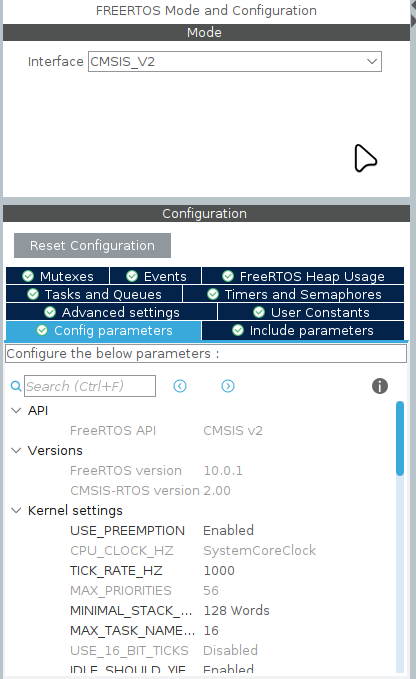
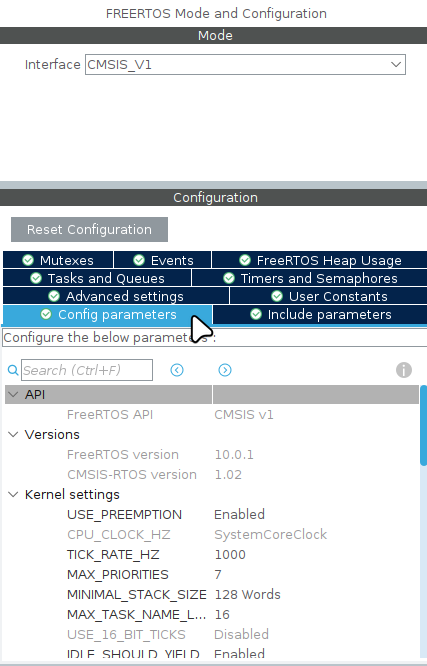
Update lab01 freertos

diff --git a/labs/01_lab01/README.md b/labs/01_lab01/README.md
@@ -169,7 +169,7 @@
         </p>
 
 
-    3. Se abrirá la secciṕn ```FREERTOS Mode and Configuration```. En ```Interface```seleccionar ```CMSIS_V2```, lo que hará que en la sección ```Configuration``` aparezcan varios *widgets* para establecer los parámetros del sistema operativo:
+    3. Se abrirá la secciṕn ```FREERTOS Mode and Configuration```. En ```Interface```seleccionar ```CMSIS_V1```, lo que hará que en la sección ```Configuration``` aparezcan varios *widgets* para establecer los parámetros del sistema operativo:
 
         <p align="center">
         <img src="/labs/figs/lab00/rtos3.png" alt="rtos3" width="310">
@@ -197,13 +197,13 @@
         <img src="/labs/figs/lab00/rtos5.png" alt="rtos5" width="310">
         </p>
 
-        * ```Name:``` BlinkTask
+        * ```Name:``` BlinkerTask
 
-        * ```Priority:``` osPriorityLow (suficiente para este ejemplo simple).
+        * ```Priority:``` osPriorityNormal 
 
         * ```Stack Size:``` 128
 
-        * ```Function:``` StartBlinkTask.
+        * ```Function:``` StartBlinkerTask.
 
         y dar clic en el botón ```OK```.
 
@@ -217,7 +217,7 @@
 
         dar clic en el botón ```Yes```.
 
-    8. ```CubeMX``` generará el archivo ```freertos.c```, donde aparecerá la plantilla de la tarea ```StartBlinkTask()```.
+    8. ```CubeMX``` generará el archivo ```freertos.c```, donde aparecerá.
 
         <p align="center">
         <img src="/labs/figs/lab00/rtos7.png" alt="rtos7" width="310">
